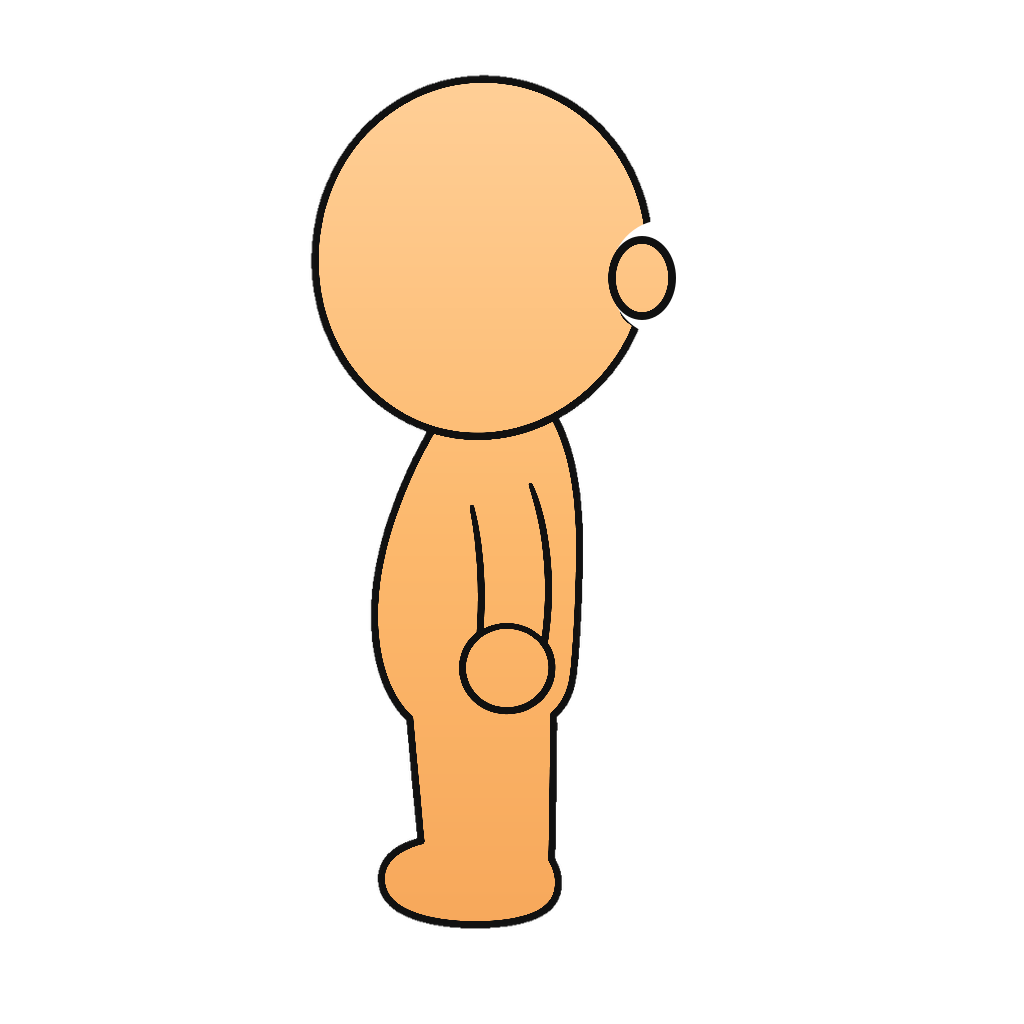
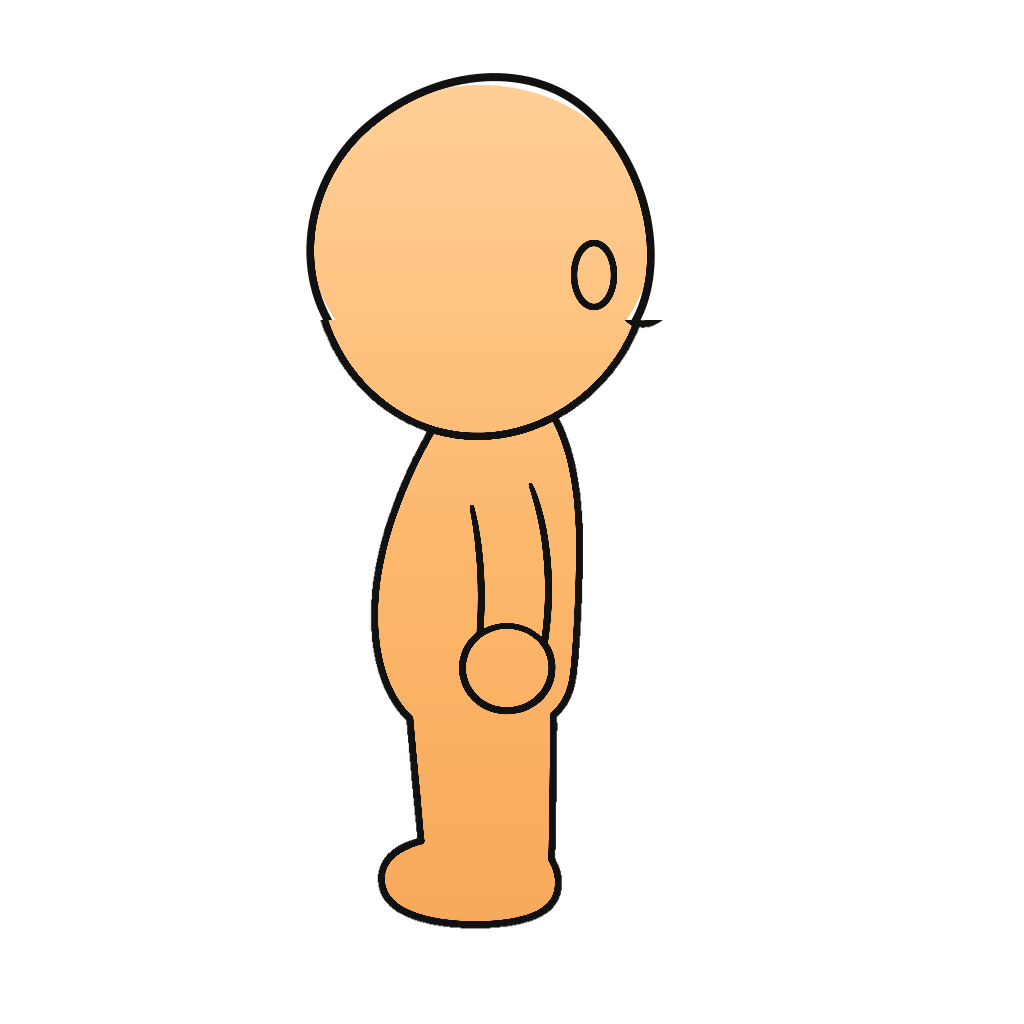
Center static side view ears

diff --git a/tools/promote-static-master-dummy.js b/tools/promote-static-master-dummy.js
@@ -121,23 +121,42 @@ async function normalizeSpritePalette(file) {
   fs.renameSync(tmp, file);
 }
 
-async function insetRightSideEar(file) {
-  const eraseOldEar = Buffer.from(`
+function sideBodyMask() {
+  return Buffer.from(`
     <svg xmlns="http://www.w3.org/2000/svg" width="${CANVAS}" height="${CANVAS}">
-      <ellipse cx="360" cy="278" rx="54" ry="58" fill="#000"/>
+      <rect x="0" y="320" width="${CANVAS}" height="${CANVAS}" fill="#fff"/>
     </svg>
   `);
-  const drawInsetEar = Buffer.from(`
+}
+
+function rightSideHeadLayer() {
+  return Buffer.from(`
     <svg xmlns="http://www.w3.org/2000/svg" width="${CANVAS}" height="${CANVAS}">
-      <ellipse cx="382" cy="278" rx="30" ry="38" fill="#fec684" stroke="#111111" stroke-width="8"/>
+      <ellipse cx="543" cy="239" rx="171" ry="154" fill="#fec684"/>
+      <path d="M397 334 C355 280 370 175 432 115 C489 59 587 67 656 126 C724 184 735 291 672 352" fill="none" stroke="#111111" stroke-width="8" stroke-linecap="round"/>
+      <ellipse cx="430" cy="275" rx="20" ry="32" fill="#fec684" stroke="#111111" stroke-width="7"/>
     </svg>
   `);
+}
+
+async function rebuildRightSideHead(file) {
+  const bodyLayer = await sharp(file)
+    .composite([{ input: sideBodyMask(), blend: "dest-in" }])
+    .png()
+    .toBuffer();
   const tmp = `${file}.tmp.png`;
 
-  await sharp(file)
+  await sharp({
+    create: {
+      width: CANVAS,
+      height: CANVAS,
+      channels: 4,
+      background: { r: 0, g: 0, b: 0, alpha: 0 },
+    },
+  })
     .composite([
-      { input: eraseOldEar, blend: "dest-out" },
-      { input: drawInsetEar, blend: "over" },
+      { input: rightSideHeadLayer(), left: 0, top: 0 },
+      { input: bodyLayer, left: 0, top: 0 },
     ])
     .png()
     .toFile(tmp);
@@ -170,7 +189,7 @@ async function normalizeRightSide(input, output) {
     .png()
     .toFile(output);
   await normalizeSpritePalette(output);
-  await insetRightSideEar(output);
+  await rebuildRightSideHead(output);
 }
 
 async function compositeCell(direction) {
@@ -264,7 +283,7 @@ async function main() {
   const manifest = {
     version: "1.0.0-static",
     status: "static_four_view_review",
-    source: "front/back promoted from static review plates; right uses corrected side orientation and inset ear placement; all views use one normalized skin palette; left is an exact mirror of right",
+    source: "front/back promoted from static review plates; right uses corrected side orientation and rebuilt side head with centered ear placement; all views use one normalized skin palette; left is an exact mirror of right",
     frames,
     canvas: {
       width: 1024,

diff --git a/motion-test/index.html b/motion-test/index.html
@@ -240,7 +240,7 @@
     const label = document.getElementById("label");
     const loadStatus = document.getElementById("loadStatus");
     const buttons = [...document.querySelectorAll(".btn")];
-    const assetVersion = "static-four-view-ear-inset-20260625";
+    const assetVersion = "static-four-view-ear-centered-20260625";
 
     function framePath(direction) {
       return `../master-dummy/v1/body/${direction}/idle/body_${direction}_idle_01.png?v=${assetVersion}`;